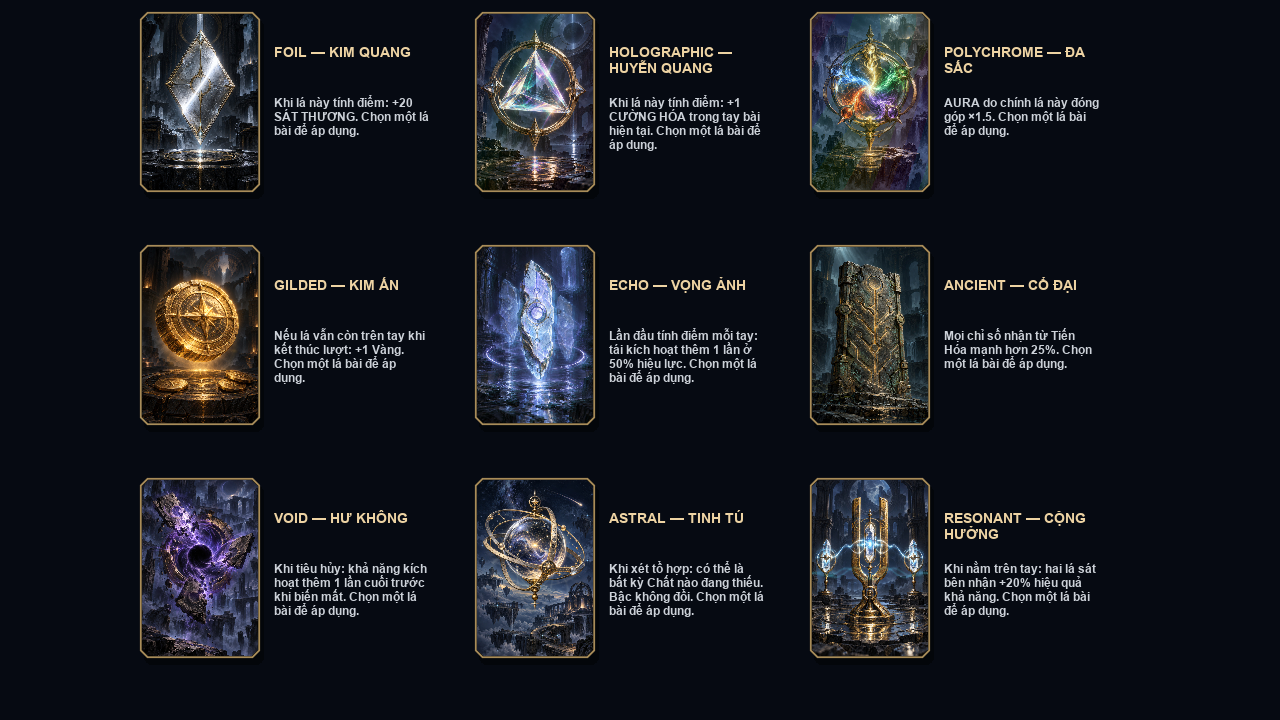
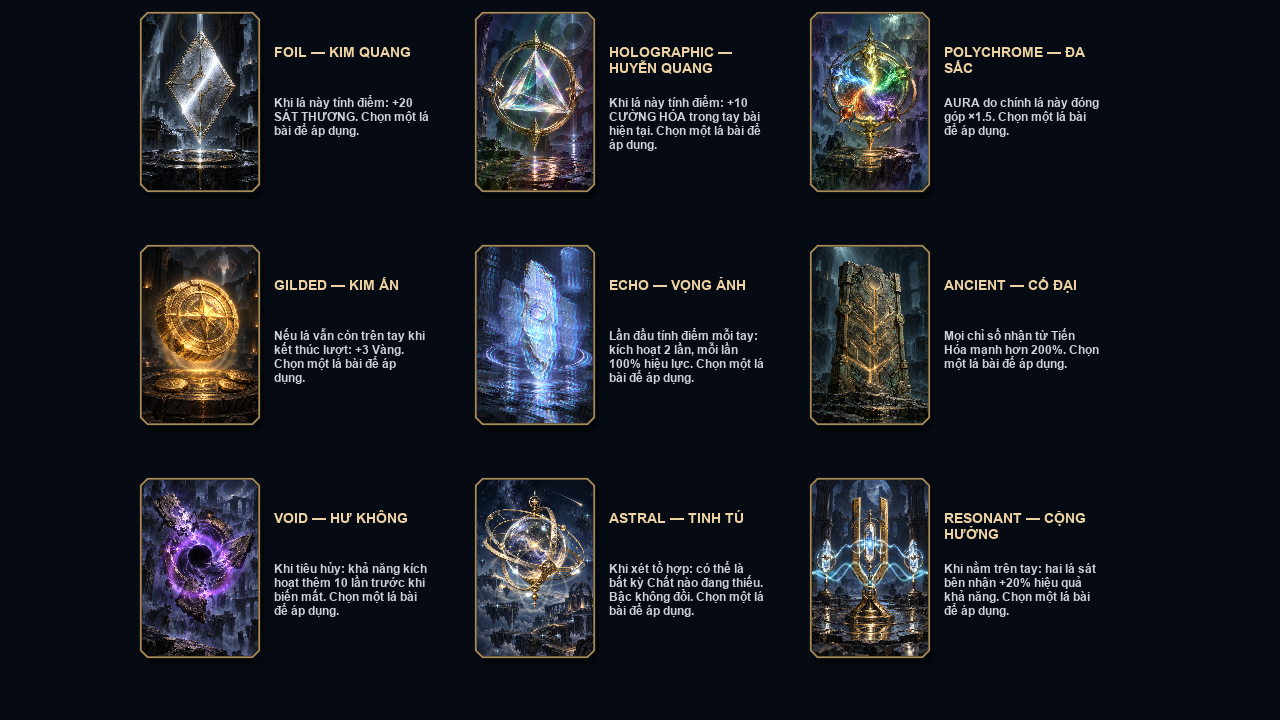
Enhance card edition shaders, animation parameters, and comparison documentation

diff --git a/docs/editions/README.md b/docs/editions/README.md
@@ -24,6 +24,10 @@ Each of the nine editions now owns its own GLSL shader. Playing cards, SPN, edit
 
 `shader_comparison.png` and `edition_effects.gif` demonstrate all nine materials on **identical artwork**, making their visual differences reviewable independently of the nine separate illustrations. The GIF uses 48 GPU-rendered frames at 12 fps. The six new materials no longer borrow the Foil or Holographic shader.
 
+The enhanced pass (2026-10-07) is shown in `edition_effects_enhanced.gif`. Idle strength is raised so the edition remains visible without hovering. Bright cores are paired with softer halos: embossed gold double rings, cyan/violet echo trails, waking stone channels, purple plasma filaments, orbiting star heads and white-cored resonance waves. Polychrome uses transmitted jewel tint to retain the artwork's tonal contrast; Holographic's sweep repeats instead of drifting permanently off the card. All effects preserve source transparency and remain beneath the frame and text. Gameplay values are unchanged by this visual pass.
+
+The GPU preview also checks all nine effects through the production reward renderer and verifies partially transparent and empty pixels for every shader.
+
 ## Gameplay
 
 - Foil: +20 flat damage on scoring; Holographic: +10 Mult on scoring.
